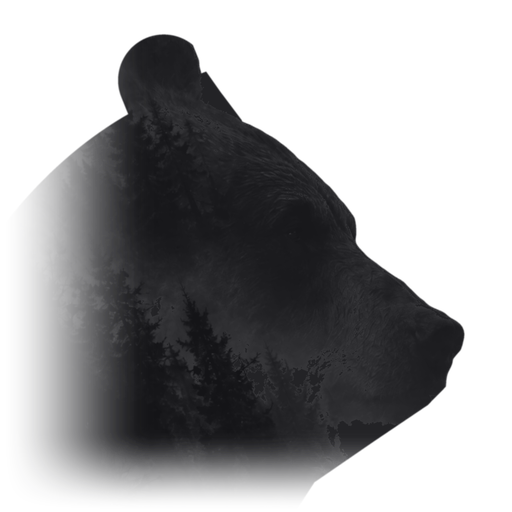
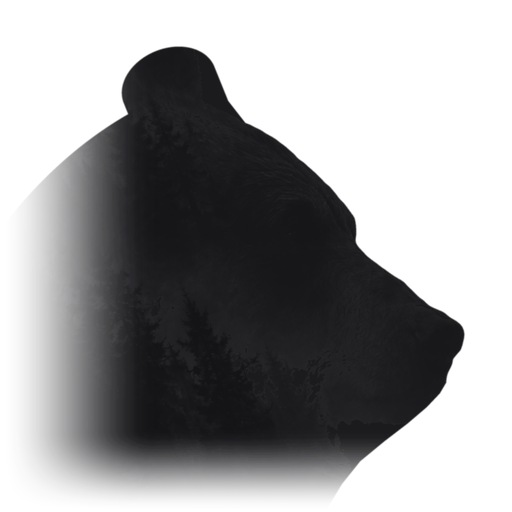
Сайт: значок — нормальное медвежье ухо, один подбородок
Claude-Session: https://claude.ai/code/session_01Uu83MB45nkJX1tXJZPePva

diff --git a/site/index.html b/site/index.html
@@ -7,9 +7,9 @@
 <meta name="description" content="Лана Фрейтаг — любовные романы. Новые главы на Литнете.">
 <meta name="theme-color" content="#fbfbfd" media="(prefers-color-scheme: light)">
 <meta name="theme-color" content="#0f0f13" media="(prefers-color-scheme: dark)">
-<link rel="icon" type="image/png" sizes="32x32" href="icon-32.png?5">
-<link rel="icon" type="image/png" sizes="512x512" href="icon-512.png?5">
-<link rel="apple-touch-icon" href="icon-bear.png?5">
+<link rel="icon" type="image/png" sizes="32x32" href="icon-32.png?6">
+<link rel="icon" type="image/png" sizes="512x512" href="icon-512.png?6">
+<link rel="apple-touch-icon" href="icon-bear.png?6">
 <link rel="preconnect" href="https://fonts.googleapis.com">
 <link rel="preconnect" href="https://fonts.gstatic.com" crossorigin>
 <link rel="stylesheet" href="https://fonts.googleapis.com/css2?family=Cormorant:ital,wght@1,400;1,500&family=Golos+Text:wght@400;500&family=Oranienbaum&display=swap">

diff --git a/site/admin/index.html b/site/admin/index.html
@@ -5,9 +5,9 @@
 <meta name="viewport" content="width=device-width, initial-scale=1, viewport-fit=cover">
 <meta name="robots" content="noindex">
 <title>Сайт · админка</title>
-<link rel="icon" type="image/png" sizes="32x32" href="../icon-32.png?5">
-<link rel="icon" type="image/png" sizes="512x512" href="../icon-512.png?5">
-<link rel="apple-touch-icon" href="../icon-bear.png?5">
+<link rel="icon" type="image/png" sizes="32x32" href="../icon-32.png?6">
+<link rel="icon" type="image/png" sizes="512x512" href="../icon-512.png?6">
+<link rel="apple-touch-icon" href="../icon-bear.png?6">
 <link rel="preconnect" href="https://fonts.googleapis.com">
 <link rel="preconnect" href="https://fonts.gstatic.com" crossorigin>
 <link rel="stylesheet" href="https://fonts.googleapis.com/css2?family=Cormorant:ital,wght@1,400;1,500&family=Golos+Text:wght@400;500&family=Oranienbaum&display=swap">

diff --git a/AGENTS.md b/AGENTS.md
@@ -37,7 +37,7 @@
   последний призыв; на телефоне кнопка «Читать» внизу появляется, когда главная ушла из виду.
   Пустые разделы не показываются. Цитаты, отрывки, отзывы — только настоящие (из книг/от читателей), не выдумывать.
   Первый экран главной — без обложек книг: слева заголовок и кнопка, справа **медведь в тумане над лесом — кадр с её обложки
-  «Звериная тропа для двоих»** (`site/hero-bear.jpg`, без лица героини и названия; значок вкладки — как у крупных сайтов: прозрачный фон, крупно (на весь значок) настоящая голова медведя с той же обложки (глаз, нос, шерсть; затылок уходит в туман), с чётким силуэтом (контур профиля с обложки, ухо круглое на широком основании — «палку» она отвергла, под мордой подбородок и горло уходят назад — чтобы морда не сливалась с низом, голова чуть приподнята — морда вперёд, внутри фактура обложки; затылок и шея тают к краю) — размытая голова во вкладке «сливается»; белый ореол на розовой вкладке некрасив; плитку под значком она не хочет; для iPhone (`icon-bear.png`) — на светлом фоне; чёрный силуэт (и обведённый, и нарисованный) она отвергла, мелкую голову в круге — тоже (`site/icon-32.png`, `icon-bear.png` 180, `icon-512.png`; рисованного кодом медведя она отвергла))
+  «Звериная тропа для двоих»** (`site/hero-bear.jpg`, без лица героини и названия; значок вкладки — как у крупных сайтов: прозрачный фон, крупно (на весь значок) настоящая голова медведя с той же обложки (глаз, нос, шерсть; затылок уходит в туман), с чётким силуэтом (контур профиля с обложки, ухо низкое и широкое, полукругом (высокое круглое на ножке она назвала неприличным, «палку» — тоже), под мордой один подбородок, горло плавно уходит назад (второй подбородок и светлые пятна внизу — нет), фактура внутри едва заметная, голова чуть приподнята — морда вперёд, внутри фактура обложки; затылок и шея тают к краю) — размытая голова во вкладке «сливается»; белый ореол на розовой вкладке некрасив; плитку под значком она не хочет; для iPhone (`icon-bear.png`) — на светлом фоне; чёрный силуэт (и обведённый, и нарисованный) она отвергла, мелкую голову в круге — тоже (`site/icon-32.png`, `icon-bear.png` 180, `icon-512.png`; рисованного кодом медведя она отвергла))
   или другая картинка `photo`. Картинка 1300×1000: только голова медведя (ели ВНУТРИ силуэта — как на обложке, можно) из обложки
   в полном разрешении, мягко выходит из лёгкого тумана; дымка обложки переведена в белый (смешивание multiply с фоном).
   Текст и медведь — одна композиция строго по центру экрана (сетка 540px + 500px, медведь заходит под текст на 48px, текст сдвинут вправо до 48px — у медведя справа туман, так визуальный центр совпадает с центром экрана); картинка — в той же сетке, не absolute. У `.hero-in` нет z-index — иначе multiply не смешивается с фоном и виден белый прямоугольник.
